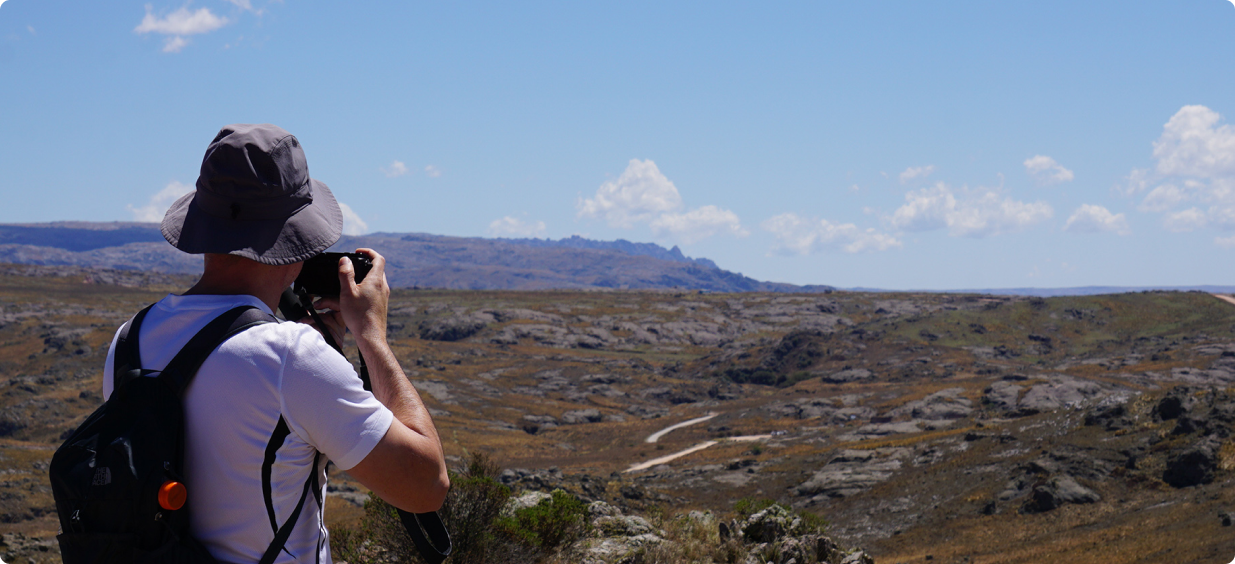
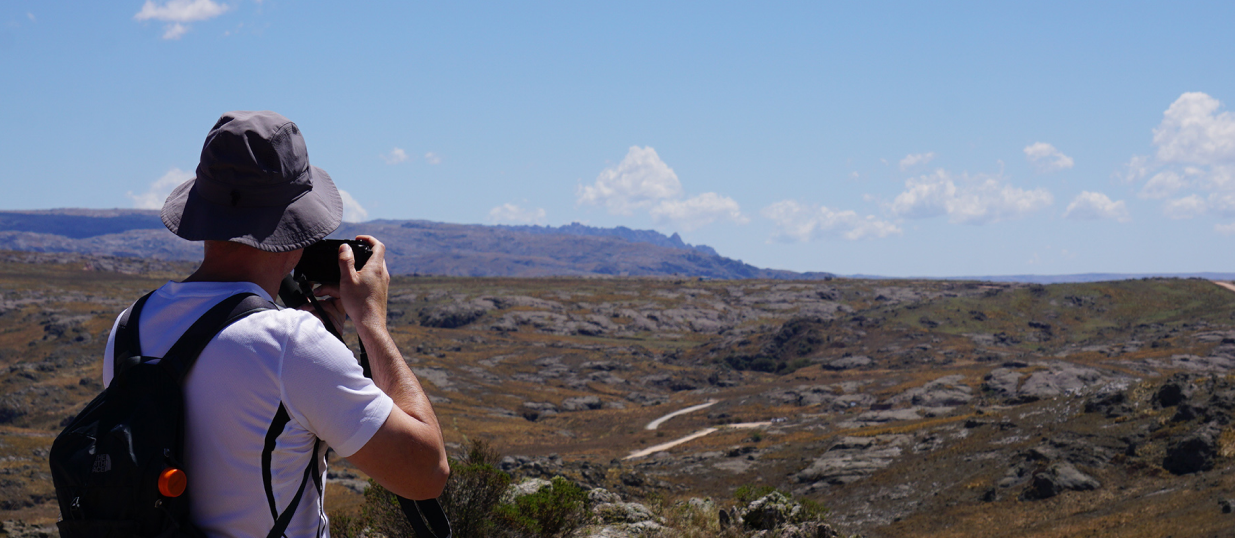
actividades page

diff --git a/src/app/actividades/components/Info.tsx b/src/app/actividades/components/Info.tsx
@@ -1,0 +1,290 @@
+"use client";
+
+import React from "react";
+import Image from "next/image";
+import Foto from "../../../../public/images/actividades_foto.png";
+import acampe from "../../../../public/images/Acampar.jpeg";
+import pesca from "../../../../public/images/pesca.jpg";
+import visitas from "../../../../public/images/noche.jpg";
+import bicicletas from "../../../../public/images/bicicleta.jpg";
+
+const Info = () => {
+  return (
+    <section className=" mt-[3rem] md:mt-[5rem] px-[25px]">
+      <div className="max-w-[900px] mx-auto">
+        <h3 className="uppercase text-[1.5rem] md:text-[2rem] mb-[2rem] md:mb-[3rem] font-bold">
+          Horarios de ingreso
+        </h3>
+        <p className="font-bold text-[.8rem] md:text-[1rem]">
+          Apertura y cierre de la tranquera sobre Ruta Provincial Nº 34 (km
+          59,5):
+        </p>
+        <ul className="list-disc list-inside mt-[1rem] text-[.8rem] md:text-[1rem] flex flex-col gap-4">
+          <li>Todos los días (incluyendo feriados nacionales).</li>
+          <li>Ingreso: de 8 a 15 horas.</li>
+          <li>Cierre: 20 horas.</li>
+          <li>Se puede ingresar todos los días de semana con guía.</li>
+        </ul>
+
+        <p className="font-bold mt-[2rem] text-[.8rem] md:text-[1rem]">
+          Horario de atención del Centro de Visitantes Achala (y permanencia en
+          estacionamiento N°1):
+        </p>
+        <ul className="list-disc list-inside mt-[1rem] text-[.8rem] md:text-[1rem]">
+          <li>De 8 a 20 horas.</li>
+        </ul>
+
+        <button className="group p-[1.5rem] border-2 border-black w-full mt-[2rem] hover:bg-black transition-all duration-200 ease-in-out">
+          <p className="uppercase font-bold group-hover:text-white transition-all duration-200 ease-in-out">
+            Mapa del área protegida
+          </p>
+        </button>
+
+        <h3 className="uppercase text-[1.5rem] md:text-[2rem] mb-[2rem] md:mb-[3rem] font-bold mt-[2rem] md:mt-[3rem]">
+          Sitios para visitar y actividades
+        </h3>
+
+        <ul className="list-disc list-inside mt-[1rem] text-[.8rem] md:text-[1rem] flex flex-col gap-4">
+          <li>
+            <span className="font-bold">Balcón Norte</span> (con senderos
+            interpretativos), bajada al{" "}
+            <span className="font-bold">
+              Río de los Condoritos y Balcón Sur
+            </span>{" "}
+            (únicamente con guías de trekking habilitados), los dos puntos de
+            observación de cóndores sobre la Quebrada del Condorito. Están
+            vinculados por una pasarela que cruza el río Condorito.
+          </li>
+          <li>
+            Acampar únicamente en{" "}
+            <span className="font-bold">La Cañada y Pampa Pajosa</span>,
+            tramitando los registros de ingreso y de acampe correspondientes.
+            Para acampar es obligatorio llevar calentador homologado.
+          </li>
+          <li>
+            La <span className="font-bold">pesca recreativa</span> se encuentra
+            habilitada desde el 30 octubre hasta fines de mayo. El permiso es
+            obligatorio y se puede solicitar gratuitamente en
+            quebradadelcondorito@apn.gob.ar y/o a través de un formulario
+            virtual.
+          </li>
+        </ul>
+      </div>
+
+      <div className="h-[200px] md:h-[400px] lg:h-[600px] my-[2rem] md:my-[3rem] relative max-w-[1536px] mx-auto">
+        <Image
+          src={Foto}
+          fill
+          alt="actividades"
+          className="object-cover rounded-lg"
+        />
+      </div>
+
+      <div className="max-w-[900px] mx-auto">
+        <h3 className="uppercase text-[1.5rem] md:text-[2rem] mb-[2rem] md:mb-[3rem] font-bold">
+          Registro obligatorio
+        </h3>
+
+        <p className="text-[.8rem] md:text-[1rem]">
+          Para acceder sin guía al Balcón Norte y/o el Río de los Condoritos es
+          necesario completar un registro obligatorio.
+          <br />
+          <br />
+          Lo completa un sólo responsable por grupo, realizando un registro por
+          vehículo según la capacidad del mismo (entre 5 y 6 personas por auto)
+          e incluyendo los datos de todos los acompañantes. El registro se
+          realiza de manera virtual, a través de un formulario web.
+          <br />
+          <br />
+          En caso de acceder en ómnibus u otro medio, se completa el registro
+          hasta 6 personas por responsable (no repetir el nombre del responsable
+          en más de un registro).
+          <br />
+          <br />
+          Acompañantes: recordá presionar "confirmar acompañante" luego de
+          cargar a cada uno, incluso el último; de lo contrario el sistema no lo
+          guardará. Por último, presioná guardar y confirmar.
+        </p>
+
+        <h3 className="uppercase text-[1.5rem] md:text-[2rem] mb-[2rem] md:mb-[3rem] mt-[2rem] md:mt-[3rem] font-bold">
+          Guías
+        </h3>
+
+        <p className="text-[.8rem] md:text-[1rem]">
+          Para acceder al Balcón Sur o hacer trekking a campo traviesa tenés que
+          contratar previo a la visita una excursión con guía habilitado.
+          <br />
+          <br />
+          Los/as guías cuentan con cupos aparte, por lo que si contratás este
+          servicio no es necesario llenar el registro online, ya que lo hacen
+          ellos. Consultá el costo/valor de cada excursión con los/as guías y
+          prestadores habilitados (ver archivo en Descargas, al final de esta
+          página).
+        </p>
+      </div>
+
+      <div className="max-w-[900px] mx-auto flex flex-col gap-[3rem] md:gap-[5rem] my-[2rem] md:my-[3rem]">
+        <div className="flex flex-col md:flex-row items-center gap-[1rem] bg-[#f7f7f7ff] md:bg-transparent p-[1rem] rounded-lg">
+          <div className="md:flex-1 text-center md:text-left flex flex-col gap-[1rem] md:p-[1rem]">
+            <h4 className="uppercase font-bold text-[1.5rem] md:text-[2rem]">
+              Acampe
+            </h4>
+            <p className="text-[.8rem] md:text-[1rem]">
+              El Parque ofrece acampe libre, gratuito y agreste en las áreas La
+              Cañada y Pampa Pajosa.
+              <br />
+              <br />
+              Tramitá tu permiso de acampe una vez que tengas confirmado el
+              registro de ingreso (indicado más arriba) y con unos días de
+              anticipación a la visita al Parque.
+              <br />
+              <br />
+              El acampe en otras áreas está permitido únicamente con
+              guías/prestadores habilitados.
+            </p>
+          </div>
+          <div className="md:flex-1 h-[300px] w-full md:h-[350px] relative">
+            <Image
+              src={acampe}
+              alt="acampar foto"
+              fill
+              className="rounded-lg object-cover"
+            />
+          </div>
+        </div>
+
+        <div className="flex flex-col md:flex-row items-center gap-[1rem] bg-[#f7f7f7ff] md:bg-transparent p-[1rem] rounded-lg">
+          <div className="md:flex-1 text-center md:text-left flex flex-col gap-[1rem] md:p-[1rem] order-1 md:order-2">
+            <h4 className="uppercase font-bold text-[1.5rem] md:text-[2rem]">
+              Pesca
+            </h4>
+            <p className="text-[.8rem] md:text-[1rem]">
+              La temporada de pesca se extiende desde el 28 de octubre de 2022
+              hasta el 28 de mayo de 2023. Sólo se puede pescar en temporada con{" "}
+              <span className="font-bold">permiso</span>, gestionado por vía
+              virtual.
+            </p>
+          </div>
+          <div className="md:flex-1 h-[300px] w-full md:h-[350px] relative order-2 md:order-1">
+            <Image
+              src={pesca}
+              alt="acampar foto"
+              fill
+              className="rounded-lg object-cover"
+            />
+          </div>
+        </div>
+
+        <div className="flex flex-col md:flex-row items-center gap-[1rem] bg-[#f7f7f7ff] md:bg-transparent p-[1rem] rounded-lg">
+          <div className="md:flex-1 text-center md:text-left flex flex-col gap-[1rem] md:p-[1rem]">
+            <h4 className="uppercase font-bold text-[1.5rem] md:text-[2rem]">
+              Visitas Nocturnas
+            </h4>
+            <p className="text-[.8rem] md:text-[1rem]">
+              Se realizan de lunes a domingos, únicamente mediante la
+              contratación de{" "}
+              <span className="font-bold">guías habilitados</span> (incluye Luna
+              Llena).
+            </p>
+          </div>
+          <div className="md:flex-1 h-[300px] w-full md:h-[350px] relative">
+            <Image
+              src={visitas}
+              alt="acampar foto"
+              fill
+              className="rounded-lg object-cover"
+            />
+          </div>
+        </div>
+
+        <div className="flex flex-col md:flex-row items-center gap-[1rem] bg-[#f7f7f7ff] md:bg-transparent p-[1rem] rounded-lg">
+          <div className="md:flex-1 text-center md:text-left flex flex-col gap-[1rem] md:p-[1rem] order-1 md:order-2">
+            <h4 className="uppercase font-bold text-[1.5rem] md:text-[2rem]">
+              Bicicletas
+            </h4>
+            <p className="text-[.8rem] md:text-[1rem]">
+              Sólo está habilitado en{" "}
+              <span className="font-bold">caminos vehiculares 2 y 7.</span> No
+              se permite el ingreso con bicicletas en el sendero que va a la
+              Quebrada.
+            </p>
+          </div>
+          <div className="md:flex-1 h-[300px] w-full md:h-[350px] relative order-2 md:order-1">
+            <Image
+              src={bicicletas}
+              alt="acampar foto"
+              fill
+              className="rounded-lg object-cover"
+            />
+          </div>
+        </div>
+      </div>
+
+      <div className="max-w-[900px] mx-auto border-b border-b-black pb-[2rem] md:pb-[3rem]">
+        <h3 className="uppercase text-[1.5rem] md:text-[2rem] mb-[2rem] md:mb-[3rem] mt-[2rem] md:mt-[3rem] font-bold">
+          Residuos
+        </h3>
+
+        <p className="text-[.8rem] md:text-[1rem]">
+          Llevá siempre una bolsa (en lo posible color oscuro, no transparente)
+          para ir dejando allí los residuos generados durante tu visita,
+          incluyendo papel higiénico, pañales o apósitos femeninos, para ser
+          retirados fuera del Parque y dispuestos en el sitio correspondiente.{" "}
+          <span className="font-bold">
+            No dejes residuos en el Parque Nacional; llevalos con vos.
+          </span>
+        </p>
+
+        <h3 className="uppercase text-[1.5rem] md:text-[2rem] mt-[2rem] md:mt-[3rem] mb-[2rem] md:mb-[3rem] font-bold">
+          Más información de interés
+        </h3>
+
+        <ul className="list-disc list-inside mt-[1rem] text-[.8rem] md:text-[1rem] flex flex-col gap-4 text-justify">
+          <li>
+            El Parque no cuenta con servicios de{" "}
+            <span className="font-bold">gastronomía pernocte</span> ni{" "}
+            <span className="font-bold">agua potable</span>.
+          </li>
+          <li>
+            Se recomienda <span className="font-bold">cargar combustible</span>{" "}
+            en Córdoba, Villa Carlos Paz o Mina Clavero, según el punto de
+            acceso al Camino de las Altas Cumbres.
+          </li>
+          <li>
+            Las únicas empresas de{" "}
+            <span className="font-bold">transporte público</span> con parada en
+            el Paraje La Pampilla (ingreso al área Noreste del Parque, por donde
+            se llega caminando a la Quebrada del Condorito) son{" "}
+            <span className="font-bold">COATA</span> y{" "}
+            <span className="font-bold">ERSA</span>. Las demás cobran pasaje
+            hasta Mina Clavero y no es seguro que se detengan en el mencionado
+            paraje.
+          </li>
+          <li>
+            Es necesario contar con calzado adecuado para la caminata (con
+            cordón que sujete el pie), llevar agua, protector solar, gorro,
+            abrigo y comida para la todo el día.
+          </li>
+          <li>
+            Para realizar las caminatas se recomienda{" "}
+            <span className="font-bold">ingresar temprano</span> y solicitar
+            previamente toda la{" "}
+            <span className="font-bold">información necesaria</span>.
+          </li>
+          <li>
+            Villa Carlos Paz y Mina Clavero ofrecen un equipamiento receptivo
+            completo.
+          </li>
+          <li>
+            Las respuestas a <span className="font-bold">consultas</span> sobre
+            registros (incluyendo modificaciones de datos) tienen lugar
+            únicamente de <span className="font-bold">lunes a viernes</span> de
+            8 a 16 horas.
+          </li>
+        </ul>
+      </div>
+    </section>
+  );
+};
+
+export default Info;

diff --git a/src/sections/Hero.tsx b/src/sections/Hero.tsx
@@ -6,7 +6,7 @@ const Hero = () => {
     <section className="min-h-screen relative flex flex-col justify-center items-center">
       <div className="absolute z-40 flex flex-col items-center px-[25px]">
         <h1 className="text-white text-center uppercase text-[2rem] lg:text-[3rem] max-w-[50rem] font-[700] pb-10 border-b border-white">
-          Parque nacional Quebrada del Cóndorito
+          Parque nacional Quebrada del Condorito
         </h1>
         <p className="text-white uppercase text-center text-[.8rem] lg:text-[1rem] font-[400] pt-10">
           Un encuentro con los condores
@@ -17,8 +17,7 @@ const Hero = () => {
         <Image
           src={Fondo}
           alt="fondo parque nacional"
-          className="object-cover z-10"
-          fill
+          className="object-cover z-10 h-screen w-screen"
           priority
         />
       </div>

diff --git a/src/app/actividades/components/Hero.tsx b/src/app/actividades/components/Hero.tsx
@@ -1,5 +1,5 @@
 import Image from "next/image";
-import Fondo from "../../../../public/images/biodiversidad.jpg";
+import Fondo from "../../../../public/images/actividades.jpg";
 import { IoChevronDownSharp } from "react-icons/io5";
 
 const Hero = () => {
@@ -7,7 +7,7 @@ const Hero = () => {
     <section className="min-h-screen relative flex flex-col justify-center items-center">
       <div className="absolute z-40 flex flex-col items-center px-[25px]">
         <h1 className="text-white text-center uppercase text-[2rem] lg:text-[5rem] max-w-[50rem] font-[700] pb-10 ">
-          Conservación
+          Actividades
         </h1>
 
         <div className="bg-white rounded-full p-2 hover:scale-110 hover:bg-verde hover:text-white transition ease-in-out duration-200 cursor-pointer translate-y-20">

diff --git a/src/components/Navbar.tsx b/src/components/Navbar.tsx
@@ -42,7 +42,7 @@ const Navbar = () => {
                 Conservación
               </li>
             </Link>
-            <Link href="/#courses">
+            <Link href="/actividades">
               <li className="text-[14px] hover:text-verde border-b border-b-transparent hover:border-b-verde transition-all duration-300 ease-in-out">
                 Actividades
               </li>
@@ -102,7 +102,7 @@ const Navbar = () => {
                 </li>
               </Link>
               <Link
-                href="/#courses"
+                href="/actividades"
                 className="flex justify-center border-b-[1px] border-black pb-3 border-opacity-50"
               >
                 <li className="font-raleway font-[400] text-grisAzul">

diff --git a/src/app/actividades/page.tsx b/src/app/actividades/page.tsx
@@ -1,0 +1,14 @@
+import React from "react";
+import Hero from "./components/Hero";
+import Info from "./components/Info";
+
+const page = () => {
+  return (
+    <div>
+      <Hero />
+      <Info />
+    </div>
+  );
+};
+
+export default page;

diff --git a/tailwind.config.js b/tailwind.config.js
@@ -19,5 +19,4 @@ module.exports = {
       },
     },
   },
-  plugins: [],
 };
